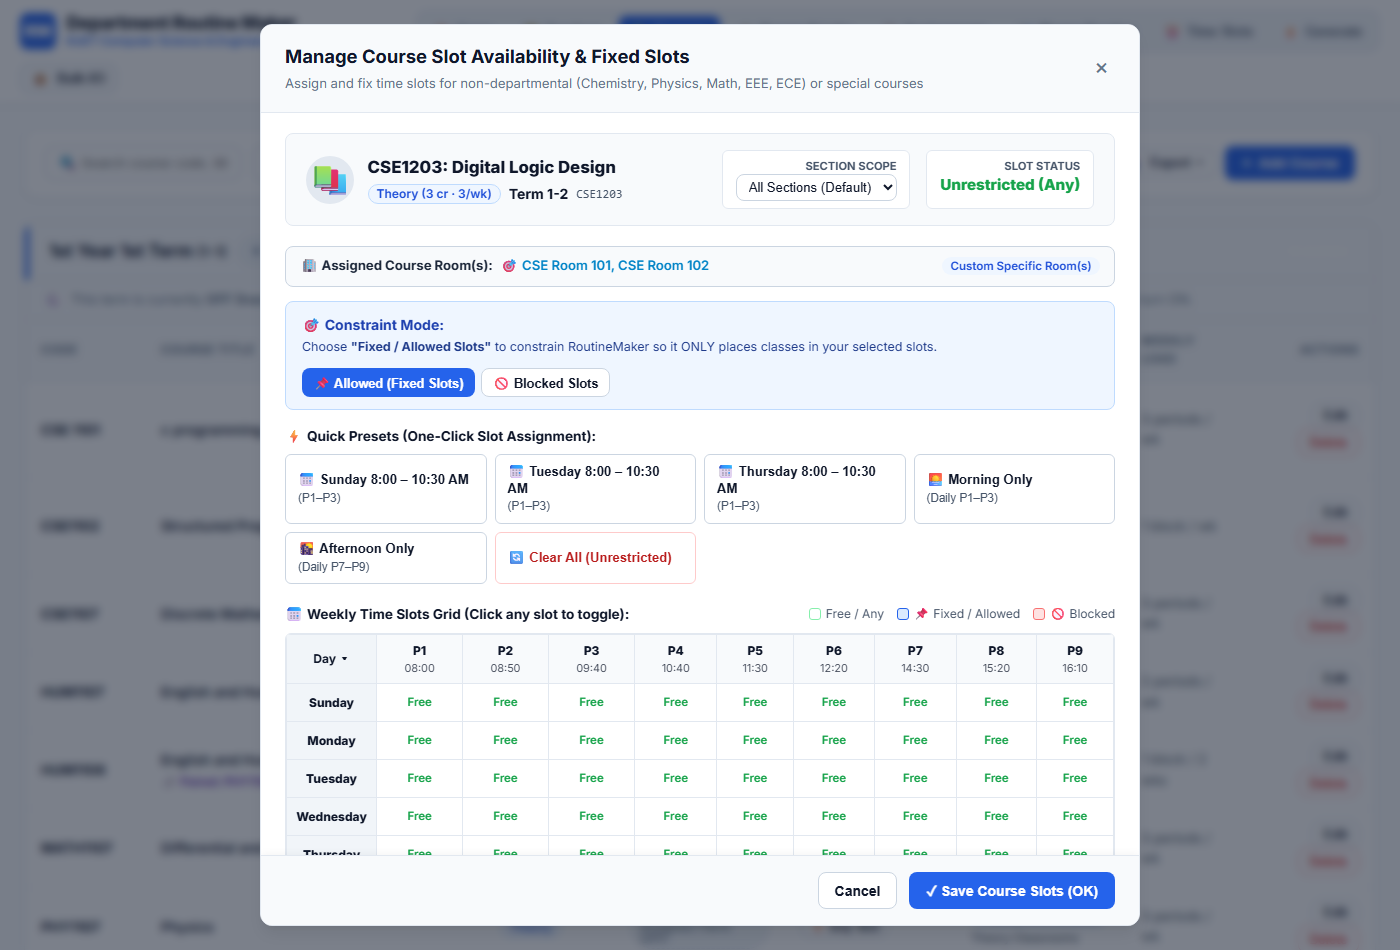
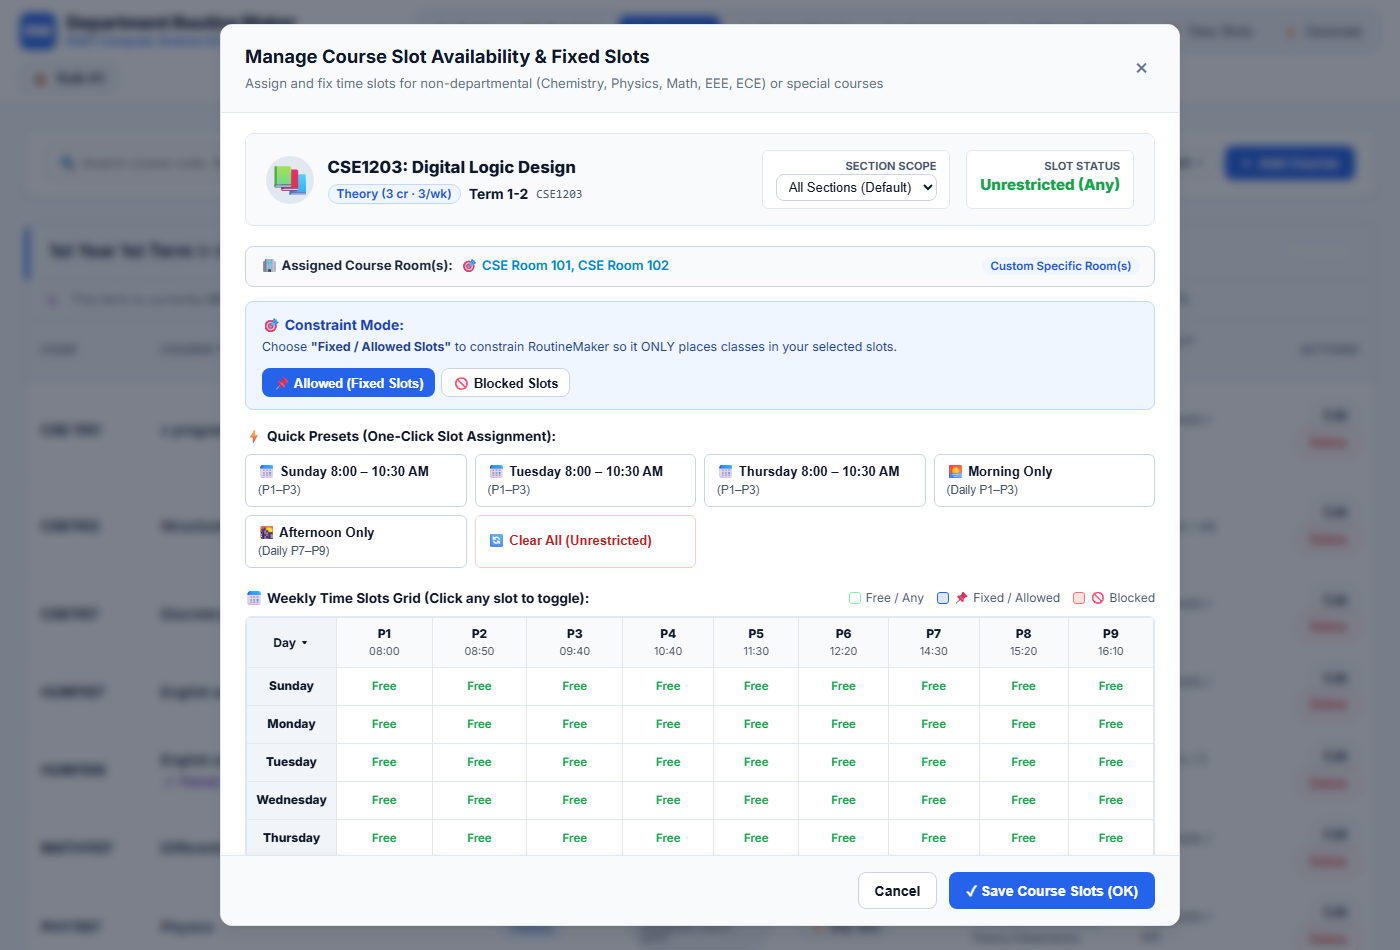
feat(ui): redesign course slot rule builder and modal into a standard decorated layout without overflow

diff --git a/app/static/index.html b/app/static/index.html
@@ -1359,7 +1359,7 @@
 
   <!-- Manage Course Slot Availability / Fixed Slots Modal (Constraint 3) -->
   <div id="modal-course-availability" class="modal-overlay">
-    <div class="modal-dialog modal-dialog-lg" style="max-width: 880px;">
+    <div class="modal-dialog modal-dialog-lg" style="max-width: 960px; width: 95vw;">
       <div class="modal-header">
         <div>
           <h3 id="modal-course-avail-title">Manage Course Slot Availability & Fixed Slots</h3>
@@ -1370,7 +1370,7 @@
         <button class="modal-close" onclick="closeCourseAvailabilityModal()">&times;</button>
       </div>
 
-      <div class="modal-body" style="padding: 1.25rem 1.5rem;">
+      <div class="modal-body" style="padding: 1.25rem 1.5rem; overflow-x: hidden;">
         <!-- Course Summary & Scope Card -->
         <div class="avail-teacher-summary">
           <div class="avail-teacher-info">
@@ -1474,63 +1474,81 @@
           </div>
         </div>
 
-        <!-- Rule Builder / Custom Rule -->
-        <div class="avail-section" style="background: #F8FAFC; padding: 0.85rem; border-radius: var(--radius); border: 1px solid #E2E8F0;">
-          <div class="avail-section-title">➕ Add Slot Assignment Rule:</div>
-          <div style="display: grid; grid-template-columns: 0.95fr 1.2fr 1fr 0.85fr 1.35fr auto; gap: 0.6rem; align-items: flex-end;">
-            <div class="form-group" style="margin-bottom: 0;">
-              <label for="course-rule-select-day" style="font-size: 0.78rem;">Day *</label>
-              <select id="course-rule-select-day" style="font-size: 0.85rem;">
-                <option value="Sunday">Sunday</option>
-                <option value="Monday">Monday</option>
-                <option value="Tuesday">Tuesday</option>
-                <option value="Wednesday">Wednesday</option>
-                <option value="Thursday">Thursday</option>
-                <option value="daily">Daily (All Days)</option>
-              </select>
+        <!-- Rule Builder / Custom Rule (Standard Decorated Card) -->
+        <div class="avail-section" style="background: #F8FAFC; padding: 1.1rem 1.25rem; border-radius: 10px; border: 1px solid #CBD5E1; box-shadow: 0 1px 3px rgba(0,0,0,0.04);">
+          <div style="display: flex; justify-content: space-between; align-items: center; margin-bottom: 0.85rem; padding-bottom: 0.5rem; border-bottom: 1px solid #E2E8F0; flex-wrap: wrap; gap: 0.5rem;">
+            <div style="font-weight: 700; font-size: 0.9rem; color: #1E293B; display: flex; align-items: center; gap: 0.45rem;">
+              <span style="font-size: 1rem;">➕</span> Add Slot Assignment Rule:
             </div>
-            <div class="form-group" style="margin-bottom: 0;">
-              <label for="course-rule-select-period" style="font-size: 0.78rem;">Period / Academic Slot *</label>
-              <select id="course-rule-select-period" style="font-size: 0.85rem;">
-                <option value="P1,P2,P3">08:00 – 10:30 AM (Block 1: P1, P2, P3)</option>
-                <option value="P4,P5,P6">10:40 – 01:10 PM (Block 2: P4, P5, P6)</option>
-                <option value="P7,P8,P9">02:30 – 05:00 PM (Block 3: P7, P8, P9)</option>
-                <option value="all">Full Day (P1–P9)</option>
-                <option value="P1">Period 1 (08:00 – 08:50)</option>
-                <option value="P2">Period 2 (08:50 – 09:40)</option>
-                <option value="P3">Period 3 (09:40 – 10:30)</option>
-                <option value="P4">Period 4 (10:40 – 11:30)</option>
-                <option value="P5">Period 5 (11:30 – 12:20)</option>
-                <option value="P6">Period 6 (12:20 – 13:10)</option>
-                <option value="P7">Period 7 (14:30 – 15:20)</option>
-                <option value="P8">Period 8 (15:20 – 16:10)</option>
-                <option value="P9">Period 9 (16:10 – 17:00)</option>
-              </select>
+            <span style="font-size: 0.76rem; color: #64748B;">Pin a section to a specific slot and room, or block unwanted slots</span>
+          </div>
+
+          <!-- Form Fields: 2 Clean Rows with ample breathing room -->
+          <div style="display: flex; flex-direction: column; gap: 0.75rem;">
+            <!-- Row 1: Day, Academic Slot, Section Scope -->
+            <div style="display: grid; grid-template-columns: 1fr 1.6fr 1fr; gap: 0.85rem;">
+              <div class="form-group" style="margin-bottom: 0;">
+                <label for="course-rule-select-day" style="font-size: 0.78rem; font-weight: 600; color: #334155; margin-bottom: 0.25rem; display: block;">Day *</label>
+                <select id="course-rule-select-day" style="width: 100%; height: 38px; font-size: 0.84rem; border-radius: 6px; border: 1px solid #CBD5E1; background: #FFF; padding: 0.35rem 0.65rem;">
+                  <option value="Sunday">Sunday</option>
+                  <option value="Monday">Monday</option>
+                  <option value="Tuesday">Tuesday</option>
+                  <option value="Wednesday">Wednesday</option>
+                  <option value="Thursday">Thursday</option>
+                  <option value="daily">Daily (All Days)</option>
+                </select>
+              </div>
+
+              <div class="form-group" style="margin-bottom: 0;">
+                <label for="course-rule-select-period" style="font-size: 0.78rem; font-weight: 600; color: #334155; margin-bottom: 0.25rem; display: block;">Period / Academic Slot *</label>
+                <select id="course-rule-select-period" style="width: 100%; height: 38px; font-size: 0.84rem; border-radius: 6px; border: 1px solid #CBD5E1; background: #FFF; padding: 0.35rem 0.65rem;">
+                  <option value="P1,P2,P3">08:00 – 10:30 AM (Block 1: P1, P2, P3)</option>
+                  <option value="P4,P5,P6">10:40 – 01:10 PM (Block 2: P4, P5, P6)</option>
+                  <option value="P7,P8,P9">02:30 – 05:00 PM (Block 3: P7, P8, P9)</option>
+                  <option value="all">Full Day (P1–P9)</option>
+                  <option value="P1">Period 1 (08:00 – 08:50)</option>
+                  <option value="P2">Period 2 (08:50 – 09:40)</option>
+                  <option value="P3">Period 3 (09:40 – 10:30)</option>
+                  <option value="P4">Period 4 (10:40 – 11:30)</option>
+                  <option value="P5">Period 5 (11:30 – 12:20)</option>
+                  <option value="P6">Period 6 (12:20 – 13:10)</option>
+                  <option value="P7">Period 7 (14:30 – 15:20)</option>
+                  <option value="P8">Period 8 (15:20 – 16:10)</option>
+                  <option value="P9">Period 9 (16:10 – 17:00)</option>
+                </select>
+              </div>
+
+              <div class="form-group" style="margin-bottom: 0;">
+                <label for="course-rule-select-section" style="font-size: 0.78rem; font-weight: 600; color: #334155; margin-bottom: 0.25rem; display: block;">Section Scope</label>
+                <select id="course-rule-select-section" style="width: 100%; height: 38px; font-size: 0.84rem; border-radius: 6px; border: 1px solid #CBD5E1; background: #FFF; padding: 0.35rem 0.65rem;">
+                  <option value="ALL">All Sections (A & B)</option>
+                  <option value="A">Section A</option>
+                  <option value="B">Section B</option>
+                </select>
+              </div>
             </div>
-            <div class="form-group" style="margin-bottom: 0;">
-              <label for="course-rule-select-type" style="font-size: 0.78rem;">Rule Type *</label>
-              <select id="course-rule-select-type" style="font-size: 0.85rem;">
-                <option value="allowed">📌 Allowed (Fixed Slot)</option>
-                <option value="blocked">🚫 Blocked Slot</option>
-              </select>
+
+            <!-- Row 2: Rule Type, Target Room, Action Button -->
+            <div style="display: grid; grid-template-columns: 1fr 1.6fr auto; gap: 0.85rem; align-items: flex-end;">
+              <div class="form-group" style="margin-bottom: 0;">
+                <label for="course-rule-select-type" style="font-size: 0.78rem; font-weight: 600; color: #334155; margin-bottom: 0.25rem; display: block;">Rule Type *</label>
+                <select id="course-rule-select-type" style="width: 100%; height: 38px; font-size: 0.84rem; border-radius: 6px; border: 1px solid #CBD5E1; background: #FFF; padding: 0.35rem 0.65rem;">
+                  <option value="allowed">📌 Allowed (Fixed Slot)</option>
+                  <option value="blocked">🚫 Blocked Slot</option>
+                </select>
+              </div>
+
+              <div class="form-group" style="margin-bottom: 0;">
+                <label for="course-rule-select-room" style="font-size: 0.78rem; font-weight: 600; color: #334155; margin-bottom: 0.25rem; display: block;">Target Room (Optional)</label>
+                <select id="course-rule-select-room" style="width: 100%; height: 38px; font-size: 0.84rem; border-radius: 6px; border: 1px solid #CBD5E1; background: #FFF; padding: 0.35rem 0.65rem;">
+                  <option value="">-- Default / Any Feasible Room --</option>
+                </select>
+              </div>
+
+              <button type="button" class="btn btn-primary" onclick="handleAddCourseAvailabilityRule()" style="white-space: nowrap; height: 38px; padding: 0 1.35rem; font-weight: 600; display: inline-flex; align-items: center; gap: 0.45rem; border-radius: 6px; box-shadow: 0 1px 2px rgba(26,86,219,0.2);">
+                <span>➕</span> Add Rule
+              </button>
             </div>
-            <div class="form-group" style="margin-bottom: 0;">
-              <label for="course-rule-select-section" style="font-size: 0.78rem;">Section</label>
-              <select id="course-rule-select-section" style="font-size: 0.85rem;">
-                <option value="ALL">All Sections</option>
-                <option value="A">Section A</option>
-                <option value="B">Section B</option>
-              </select>
-            </div>
-            <div class="form-group" style="margin-bottom: 0;">
-              <label for="course-rule-select-room" style="font-size: 0.78rem;">Room (Optional)</label>
-              <select id="course-rule-select-room" style="font-size: 0.85rem;">
-                <option value="">-- Default / Any Room --</option>
-              </select>
-            </div>
-            <button type="button" class="btn btn-primary" onclick="handleAddCourseAvailabilityRule()" style="white-space: nowrap; height: 38px;">
-              + Add Rule
-            </button>
           </div>
         </div>
 
@@ -2136,6 +2154,6 @@
     <span id="toast-message">Notification</span>
   </div>
 
-  <script src="/static/app.js?v=3.6.0"></script>
+  <script src="/static/app.js?v=3.6.2"></script>
 </body>
 </html>

diff --git a/app/static/app.js b/app/static/app.js
@@ -1472,8 +1472,9 @@ function renderCourseAvailabilityRulesList() {
 
   if (courseAvailState.rules.length === 0) {
     container.innerHTML = `
-      <div style="font-size: 0.82rem; color: #16A34A; background: #F0FDF4; padding: 0.45rem 0.75rem; border-radius: 6px; border: 1px solid #BBF7D0; width: 100%;">
-        ✓ No slot restrictions configured. Course can be placed in any feasible slot.
+      <div style="font-size: 0.82rem; color: #16A34A; background: #F0FDF4; padding: 0.55rem 0.85rem; border-radius: 6px; border: 1px solid #BBF7D0; width: 100%; display: flex; align-items: center; gap: 0.4rem;">
+        <span style="font-size: 0.95rem;">✓</span>
+        <span>No custom slot restrictions configured. Course can be placed in any feasible slot.</span>
       </div>
     `;
     return;
@@ -1481,16 +1482,38 @@ function renderCourseAvailabilityRulesList() {
 
   container.innerHTML = courseAvailState.rules
     .map((r, idx) => {
-      const desc = r.description || formatCourseRuleDesc(r);
       const isAllowed = (r.rule_type || "allowed").toLowerCase() === "allowed";
-      const chipClass = isAllowed ? "avail-rule-chip chip-allowed" : "avail-rule-chip";
+      const chipClass = isAllowed ? "avail-rule-chip chip-allowed" : "avail-rule-chip chip-blocked";
       const icon = isAllowed ? "📌" : "🚫";
-      const roomTag = r.room_id ? `<span style="background: #DBEAFE; color: #1E40AF; padding: 0.15rem 0.5rem; border-radius: 4px; font-weight: 700; font-size: 0.75rem; border: 1px solid #BFDBFE;">🏢 ${escapeHtml(r.room_name || r.room_id)}</span>` : "";
+      const typeLabel = isAllowed ? "Allowed" : "Blocked";
+      const secLabel = r.section && r.section !== "ALL" ? `Sec ${r.section}` : "All Sections";
+
+      let periodLabel = r.periods;
+      if (r.periods === "P1,P2,P3") periodLabel = "08:00 – 10:30 (P1–P3)";
+      else if (r.periods === "P4,P5,P6") periodLabel = "10:40 – 01:10 (P4–P6)";
+      else if (r.periods === "P7,P8,P9") periodLabel = "02:30 – 05:00 (P7–P9)";
+      else if (r.periods === "all") periodLabel = "Full Day (P1–P9)";
+
+      const roomObj = r.room_id ? (state.rooms || []).find((x) => x.id === r.room_id) : null;
+      const roomName = roomObj ? roomObj.name : (r.room_name || r.room_id || null);
+
       return `
-      <div class="${chipClass}" style="display: inline-flex; align-items: center; gap: 0.35rem;">
-        <span>${icon} ${escapeHtml(desc)}</span>
-        ${roomTag}
-        <button type="button" onclick="handleDeleteCourseAvailabilityRule(${idx})" title="Remove this rule">&times;</button>
+      <div class="${chipClass}" style="display: inline-flex; align-items: center; gap: 0.45rem; padding: 0.35rem 0.65rem; border-radius: 6px; font-size: 0.8rem; box-shadow: 0 1px 2px rgba(0,0,0,0.04);">
+        <span style="font-weight: 700; display: inline-flex; align-items: center; gap: 0.25rem;">
+          ${icon} [${typeLabel}]
+        </span>
+        <span style="background: rgba(0,0,0,0.06); padding: 0.1rem 0.45rem; border-radius: 4px; font-weight: 700; font-size: 0.74rem;">
+          ${escapeHtml(secLabel)}
+        </span>
+        <span style="font-weight: 600;">
+          ${escapeHtml(r.day)}: ${escapeHtml(periodLabel)}
+        </span>
+        ${roomName ? `
+          <span style="background: #DBEAFE; color: #1E40AF; padding: 0.12rem 0.45rem; border-radius: 4px; font-weight: 700; font-size: 0.75rem; border: 1px solid #BFDBFE; display: inline-flex; align-items: center; gap: 0.25rem;">
+            🏢 ${escapeHtml(roomName)}
+          </span>` : ""
+        }
+        <button type="button" onclick="handleDeleteCourseAvailabilityRule(${idx})" title="Remove this rule" style="margin-left: 0.25rem; font-size: 1.15rem; line-height: 1; opacity: 0.75; cursor: pointer; border: none; background: transparent;">&times;</button>
       </div>
     `;
     })

diff --git a/app/static/style.css b/app/static/style.css
@@ -1542,6 +1542,20 @@ table.data-table tr:hover td {
   color: #DC2626;
 }
 
+.avail-rule-chip.chip-blocked {
+  background: #FEF2F2;
+  border: 1px solid #FECACA;
+  color: #B91C1C;
+}
+
+.avail-rule-chip.chip-blocked button {
+  color: #B91C1C;
+}
+
+.avail-rule-chip.chip-blocked button:hover {
+  color: #7F1D1D;
+}
+
 /* =============================================================================
    Time Slots & Class Schedule Customizer Styles (Standard Decorated Academic UI)
    ============================================================================= */

diff --git a/tools/verify_ui_slot_rooms.py b/tools/verify_ui_slot_rooms.py
@@ -59,6 +59,10 @@ def run():
         page.screenshot(path=str(shot2))
         print(f"Captured: {shot2}")
 
+        shot_dialog = screenshots_dir / "slot_room_modal_dialog.png"
+        page.locator("#modal-course-availability .modal-dialog").screenshot(path=str(shot_dialog))
+        print(f"Captured: {shot_dialog}")
+
         # 5. Click Save Course Slots
         print("Clicking Save Course Slots (OK)...")
         page.click("#modal-course-availability button[onclick='saveCourseAvailability()']")
@@ -93,6 +97,14 @@ def run():
 
         browser.close()
         print("Visual verification complete!")
+
+        # Copy to artifact screenshots directory
+        import shutil
+        artifact_dir = Path(r"C:\Users\Mesbaul Islam\.gemini\antigravity\brain\7fa64768-97c3-4235-84ce-7c2bb25d7a9f\screenshots")
+        artifact_dir.mkdir(parents=True, exist_ok=True)
+        for img in screenshots_dir.glob("slot_room_*.png"):
+            shutil.copy2(img, artifact_dir / img.name)
+        print("Copied screenshots to artifact directory.")
 
 if __name__ == "__main__":
     run()
